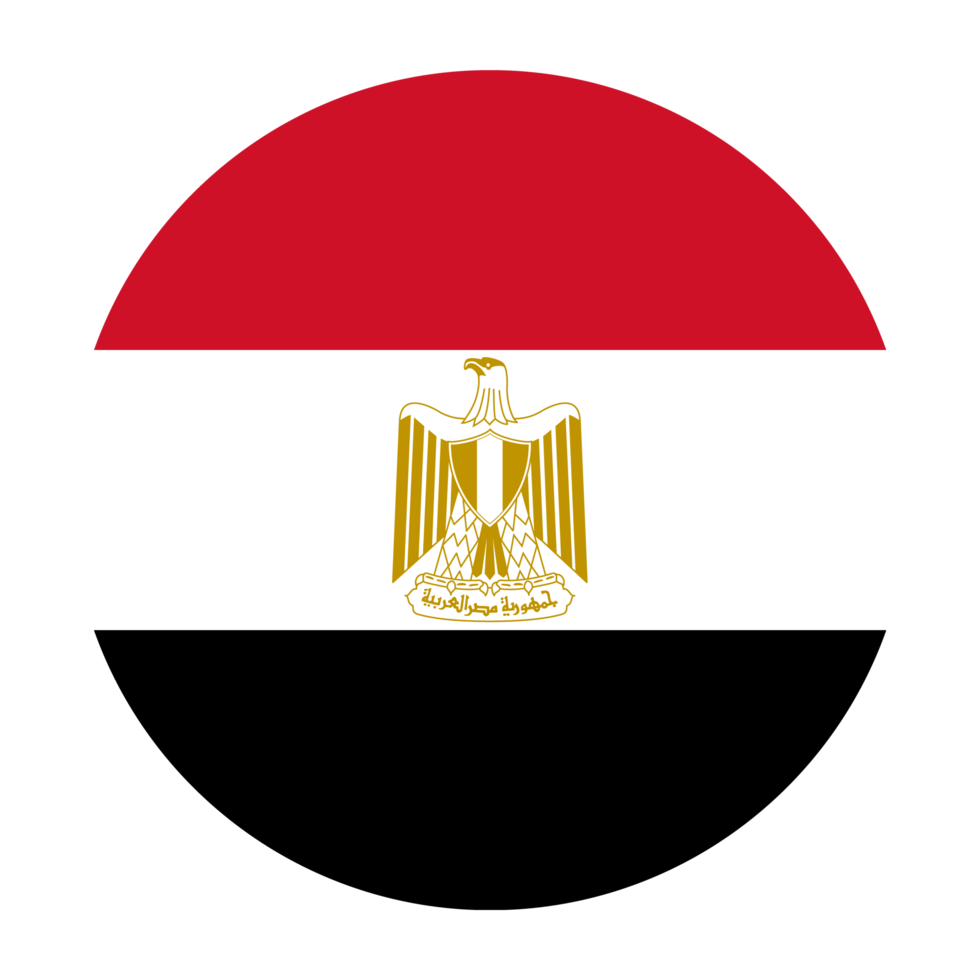
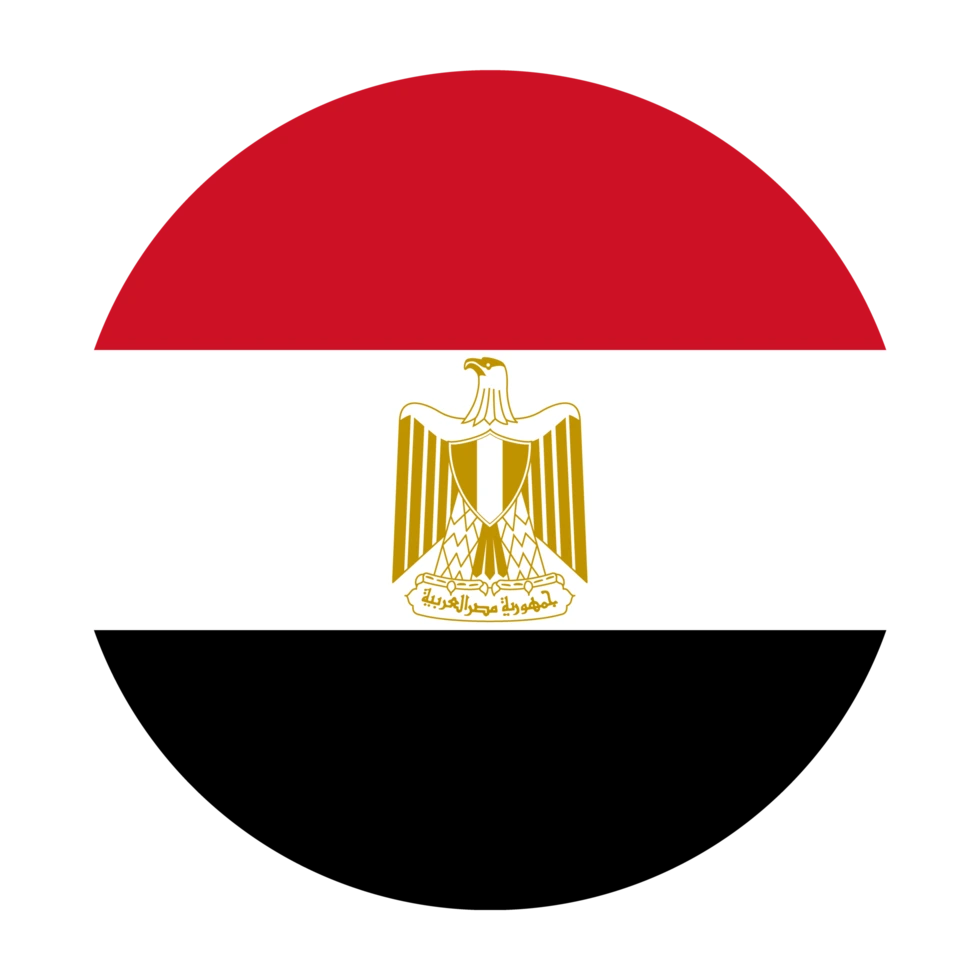
optimized images

Changed region(s): [[0.398, 0.3673, 0.6122, 0.6429]]

diff --git a/src/components/HeroSection/HeroSection.jsx b/src/components/HeroSection/HeroSection.jsx
@@ -1,13 +1,13 @@
 import { useEffect, useState } from "react";
-import bg1 from "../../assets/images/hero-bg1.png";
-import bg2 from "../../assets/images/hero-bg2.png";
-import bg3 from "../../assets/images/hero-bg3.png";
-import bg4 from "../../assets/images/hero-bg4.png";
-import bg5 from "../../assets/images/hero-bg5.png";
-import bg6 from "../../assets/images/hero-bg6.png";
-import card1 from "../../assets/images/hero-card-1.png";
-import card2 from "../../assets/images/hero-card-2.png";
-import card3 from "../../assets/images/hero-card-3.png";
+import bg1 from "../../assets/images/hero-bg1.webp";
+import bg2 from "../../assets/images/hero-bg2.webp";
+import bg3 from "../../assets/images/hero-bg3.webp";
+import bg4 from "../../assets/images/hero-bg4.webp";
+import bg5 from "../../assets/images/hero-bg5.webp";
+import bg6 from "../../assets/images/hero-bg6.webp";
+import card1 from "../../assets/images/hero-card-1.webp";
+import card2 from "../../assets/images/hero-card-2.webp";
+import card3 from "../../assets/images/hero-card-3.webp";
 
 import AppBar from "../AppBar/AppBar.jsx";
 import { AnimatePresence, motion } from "framer-motion";

diff --git a/src/components/CultureQuizTeaser/CultureQuizTeaser.jsx b/src/components/CultureQuizTeaser/CultureQuizTeaser.jsx
@@ -1,15 +1,15 @@
 import { useState } from "react";
 import { FaMedal } from "react-icons/fa";
 import Container from "../Container/Container.jsx";
-import palestineFg from "../../assets/images/palestine-flag.png";
-import jordanFg from "../../assets/images/jordan-flag.jpg";
+import palestineFg from "../../assets/images/palestine-flag.webp";
+import jordanFg from "../../assets/images/jordan-flag.webp";
 import egyptFg from "../../assets/images/egypt-flag.webp";
 
 const QUIZ_DATA = [
   {
     country: "Palestinian Pride",
     flagEmoji: "🇵🇸",
-    badgeIcon: "/badges/palestine.png",
+    badgeIcon: "/badges/palestine.webp",
     questions: [
       {
         q: "Which city is famous for its knafeh?",
@@ -36,7 +36,7 @@ const QUIZ_DATA = [
   {
     country: "Sudanese Soul",
     flagEmoji: "🇸🇩",
-    badgeIcon: "/badges/sudan.png",
+    badgeIcon: "/badges/sudan.webp",
     questions: [
       {
         q: "During 'Jertig' weddings, which color is worn to protect against the evil eye?",

diff --git a/src/components/AppBar/AppBar.jsx b/src/components/AppBar/AppBar.jsx
@@ -1,7 +1,7 @@
 import { useState } from "react";
 import { CiMenuFries } from "react-icons/ci";
 import { IoMdClose } from "react-icons/io";
-import galbiLogo from "../../assets/images/galbi-logo.png";
+import galbiLogo from "../../assets/images/galbi-logo.webp";
 import AuthNav from "../AuthNav/AuthNav.jsx";
 import Navigation from "../Navigation/Navigation.jsx";
 
@@ -11,12 +11,10 @@ const AppBar = () => {
   return (
     <header className="absolute top-0 left-0 w-full z-50 bg-transparent">
       <div className="max-w-[1920px] mx-auto flex items-center justify-between px-6 py-[25px] md:px-[50px] relative">
-        {/* Logo */}
         <a href="/">
           <img className="w-[52px] h-[50px]" src={galbiLogo} alt="Galbi Logo" />
         </a>
 
-        {/* Desktop navigation */}
         <div className="hidden lg:flex items-center justify-center gap-[110px]">
           <Navigation />
           <AuthNav />

diff --git a/src/components/FeaturesSection/FeaturesSection.jsx b/src/components/FeaturesSection/FeaturesSection.jsx
@@ -1,9 +1,9 @@
-import feature1 from "../../assets/images/feature-1.png";
-import feature2 from "../../assets/images/feature-2.png";
-import feature3 from "../../assets/images/feature-3.png";
-import feature4 from "../../assets/images/feature-4.png";
-import feature5 from "../../assets/images/feature-5.png";
-import feature6 from "../../assets/images/feature-6.png";
+import feature1 from "../../assets/images/feature-1.webp";
+import feature2 from "../../assets/images/feature-2.webp";
+import feature3 from "../../assets/images/feature-3.webp";
+import feature4 from "../../assets/images/feature-4.webp";
+import feature5 from "../../assets/images/feature-5.webp";
+import feature6 from "../../assets/images/feature-6.webp";
 import Container from "../Container/Container.jsx";
 
 const features = [

diff --git a/src/components/Footer/Footer.jsx b/src/components/Footer/Footer.jsx
@@ -1,7 +1,7 @@
-import galbiLogo from "../../assets/images/galbi-logo.png";
-import footerBgImg from "../../assets/images/footer-bg.png";
+import galbiLogo from "../../assets/images/galbi-logo.webp";
+import footerBgImg from "../../assets/images/footer-bg.webp";
 import Container from "../Container/Container.jsx";
-import sphere from "../../assets/images/sphere-bg.png";
+
 const Footer = () => {
   return (
     <section

diff --git a/src/components/SignUpSection/SignUpSection.jsx b/src/components/SignUpSection/SignUpSection.jsx
@@ -1,6 +1,6 @@
 import AuthForm from "../AuthForm/AuthForm.jsx";
 import Container from "../Container/Container.jsx";
-import signUpBg from "../../assets/images/sign-up-bg.png";
+import signUpBg from "../../assets/images/sign-up-bg.webp";
 
 const SignUpSection = () => {
   return (

diff --git a/src/components/CommunitySection/CommunitySection.jsx b/src/components/CommunitySection/CommunitySection.jsx
@@ -1,4 +1,4 @@
-import communityBg from "../../assets/images/communitySec-bg.png";
+import communityBg from "../../assets/images/communitySec-bg.webp";
 import Container from "../Container/Container.jsx";
 
 const CommunitySection = () => {
